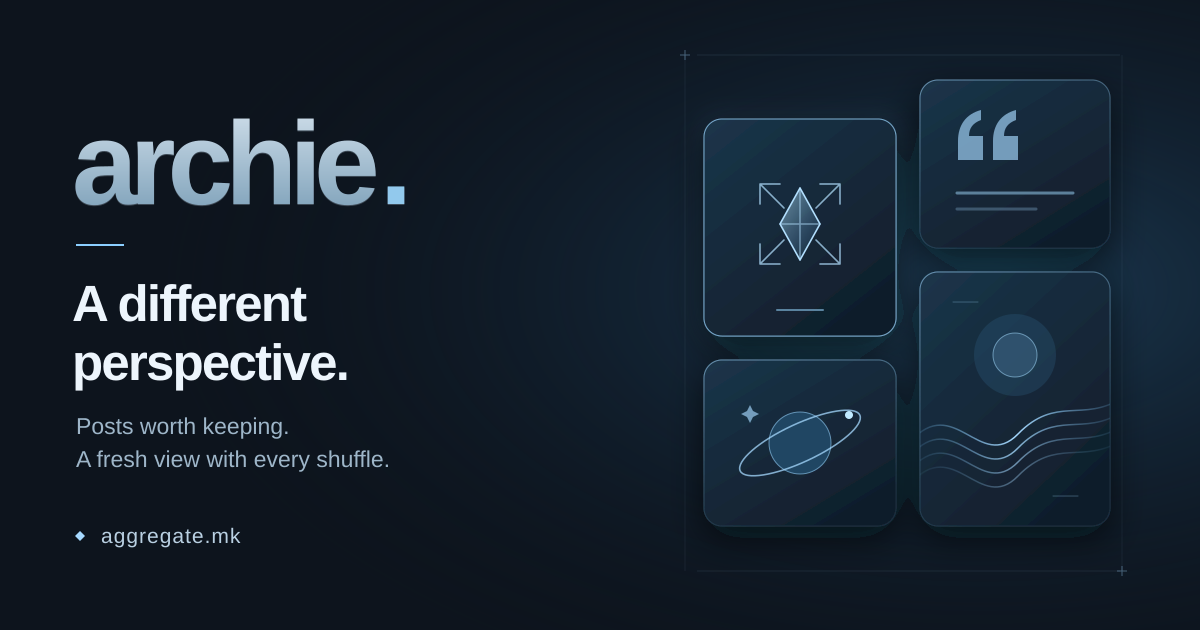
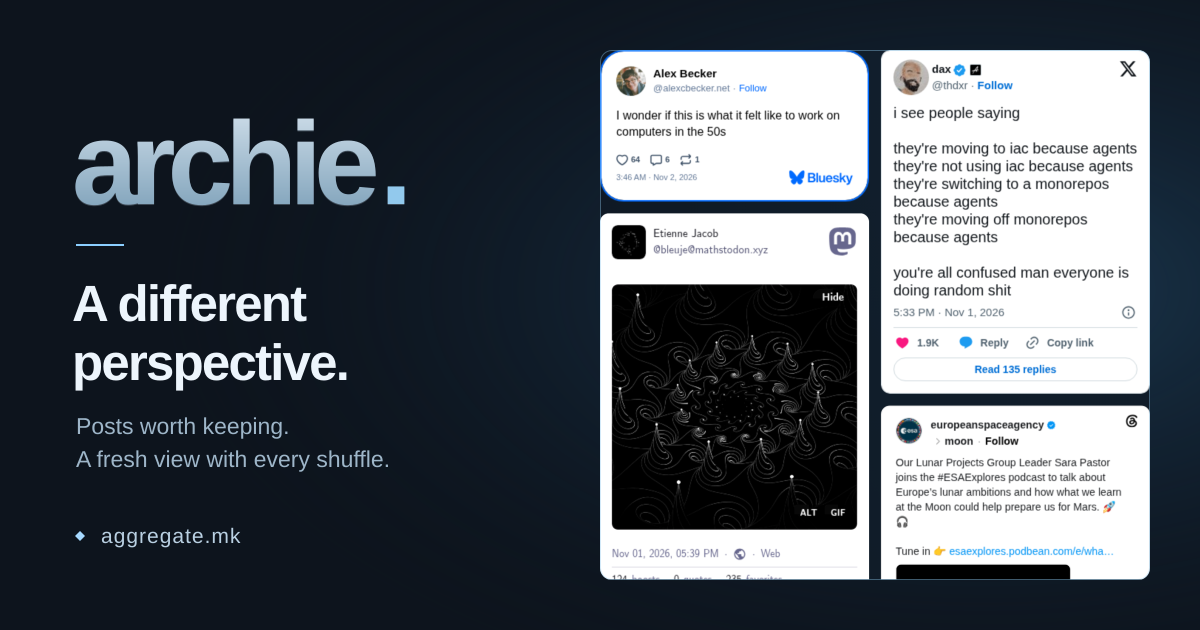
Updating OB png

diff --git a/index.html b/index.html
@@ -18,12 +18,12 @@
   <meta property="og:image:type" content="image/png">
   <meta property="og:image:width" content="1200">
   <meta property="og:image:height" content="630">
-  <meta property="og:image:alt" content="Archie — A different perspective. Blue glowing cards on a dark background.">
+  <meta property="og:image:alt" content="Archie — A different perspective. A screenshot of native social posts beside the Archie wordmark.">
   <meta name="twitter:card" content="summary_large_image">
   <meta name="twitter:title" content="Archie — A different perspective">
   <meta name="twitter:description" content="A little space for posts worth keeping. A different perspective with every shuffle.">
   <meta name="twitter:image" content="https://aggregate.mk/Images/archie-preview.png">
-  <meta name="twitter:image:alt" content="Archie — A different perspective. Blue glowing cards on a dark background.">
+  <meta name="twitter:image:alt" content="Archie — A different perspective. A screenshot of native social posts beside the Archie wordmark.">
   <link rel="icon" href="Buttons/favicon.svg">
   <link rel="stylesheet" href="styles.css?v=buttons-20261029">
   <link rel="stylesheet" href="Buttons/buttons.css?v=tools-highlight-20261029">

diff --git a/Sites/ControlPanel.html b/Sites/ControlPanel.html
@@ -17,12 +17,12 @@
   <meta property="og:image:type" content="image/png">
   <meta property="og:image:width" content="1200">
   <meta property="og:image:height" content="630">
-  <meta property="og:image:alt" content="Archie — A different perspective. Blue glowing cards on a dark background.">
+  <meta property="og:image:alt" content="Archie — A different perspective. A screenshot of native social posts beside the Archie wordmark.">
   <meta name="twitter:card" content="summary_large_image">
   <meta name="twitter:title" content="Control Panel — Archie">
   <meta name="twitter:description" content="Choose the categories and social networks in your Archie feed.">
   <meta name="twitter:image" content="https://aggregate.mk/Images/archie-preview.png">
-  <meta name="twitter:image:alt" content="Archie — A different perspective. Blue glowing cards on a dark background.">
+  <meta name="twitter:image:alt" content="Archie — A different perspective. A screenshot of native social posts beside the Archie wordmark.">
   <link rel="icon" href="../Buttons/favicon.svg">
   <link rel="stylesheet" href="../styles.css?v=buttons-20261029">
   <link rel="stylesheet" href="../Buttons/buttons.css?v=tools-highlight-20261029">

diff --git a/Sites/help.html b/Sites/help.html
@@ -17,12 +17,12 @@
   <meta property="og:image:type" content="image/png">
   <meta property="og:image:width" content="1200">
   <meta property="og:image:height" content="630">
-  <meta property="og:image:alt" content="Archie — A different perspective. Blue glowing cards on a dark background.">
+  <meta property="og:image:alt" content="Archie — A different perspective. A screenshot of native social posts beside the Archie wordmark.">
   <meta name="twitter:card" content="summary_large_image">
   <meta name="twitter:title" content="Help — Archie">
   <meta name="twitter:description" content="A little guidance on Archie's Help, Interact, and Shuffle controls.">
   <meta name="twitter:image" content="https://aggregate.mk/Images/archie-preview.png">
-  <meta name="twitter:image:alt" content="Archie — A different perspective. Blue glowing cards on a dark background.">
+  <meta name="twitter:image:alt" content="Archie — A different perspective. A screenshot of native social posts beside the Archie wordmark.">
   <link rel="icon" href="../Buttons/favicon.svg">
   <link rel="stylesheet" href="../styles.css?v=buttons-20261029">
   <link rel="stylesheet" href="../Buttons/buttons.css?v=tools-highlight-20261029">
